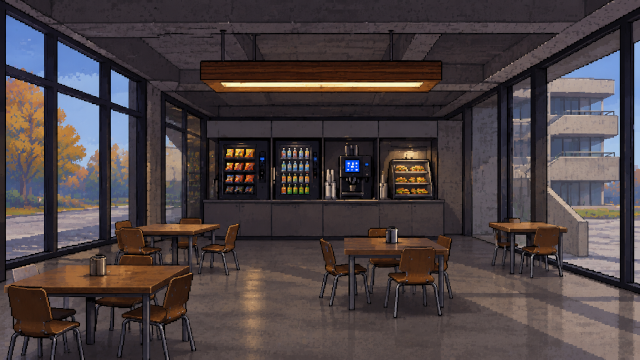
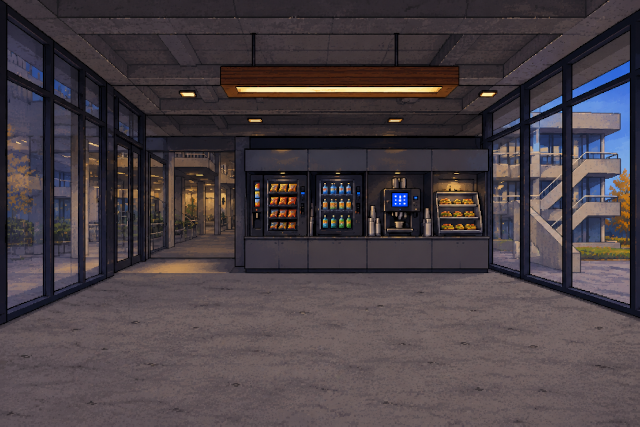
Update cafeteria image

diff --git a/src/uni/index.ts b/src/uni/index.ts
@@ -30,14 +30,16 @@ const cafeteria: RoomDef = {
   id: 'cafeteria',
   name: 'Cafeteria',
   assets: { images: [{ key: 'uni-cafeteria', url: `${import.meta.env.BASE_URL}img/uni-cafeteria.png` }] },
-  layers: [{ id: 'background', depth: Layer.BEHIND, image: 'uni-cafeteria', w: 960, h: 450 }],
+  layers: [{ id: 'background', depth: Layer.BEHIND, image: 'uni-cafeteria', x: 0, y: -95, w: 960, h: 640 }],
   walkArea: [
-    { x: 30, y: 300 },
-    { x: 930, y: 300 },
-    { x: 940, y: 445 },
-    { x: 20, y: 445 },
+    { x: 0, y: 450 },
+    { x: 0, y: 395 },
+    { x: 185, y: 315 },
+    { x: 740, y: 315 },
+    { x: 960, y: 385 },
+    { x: 960, y: 450 },
   ],
-  scaling: { yTop: 300, scaleTop: 0.55, yBottom: 445, scaleBottom: 0.85 },
+  scaling: { yTop: 315, scaleTop: 0.55, yBottom: 445, scaleBottom: 0.85 },
   hotspots: [],
   entries: { start: { x: 470, y: 375, facing: 'down' } },
 };
